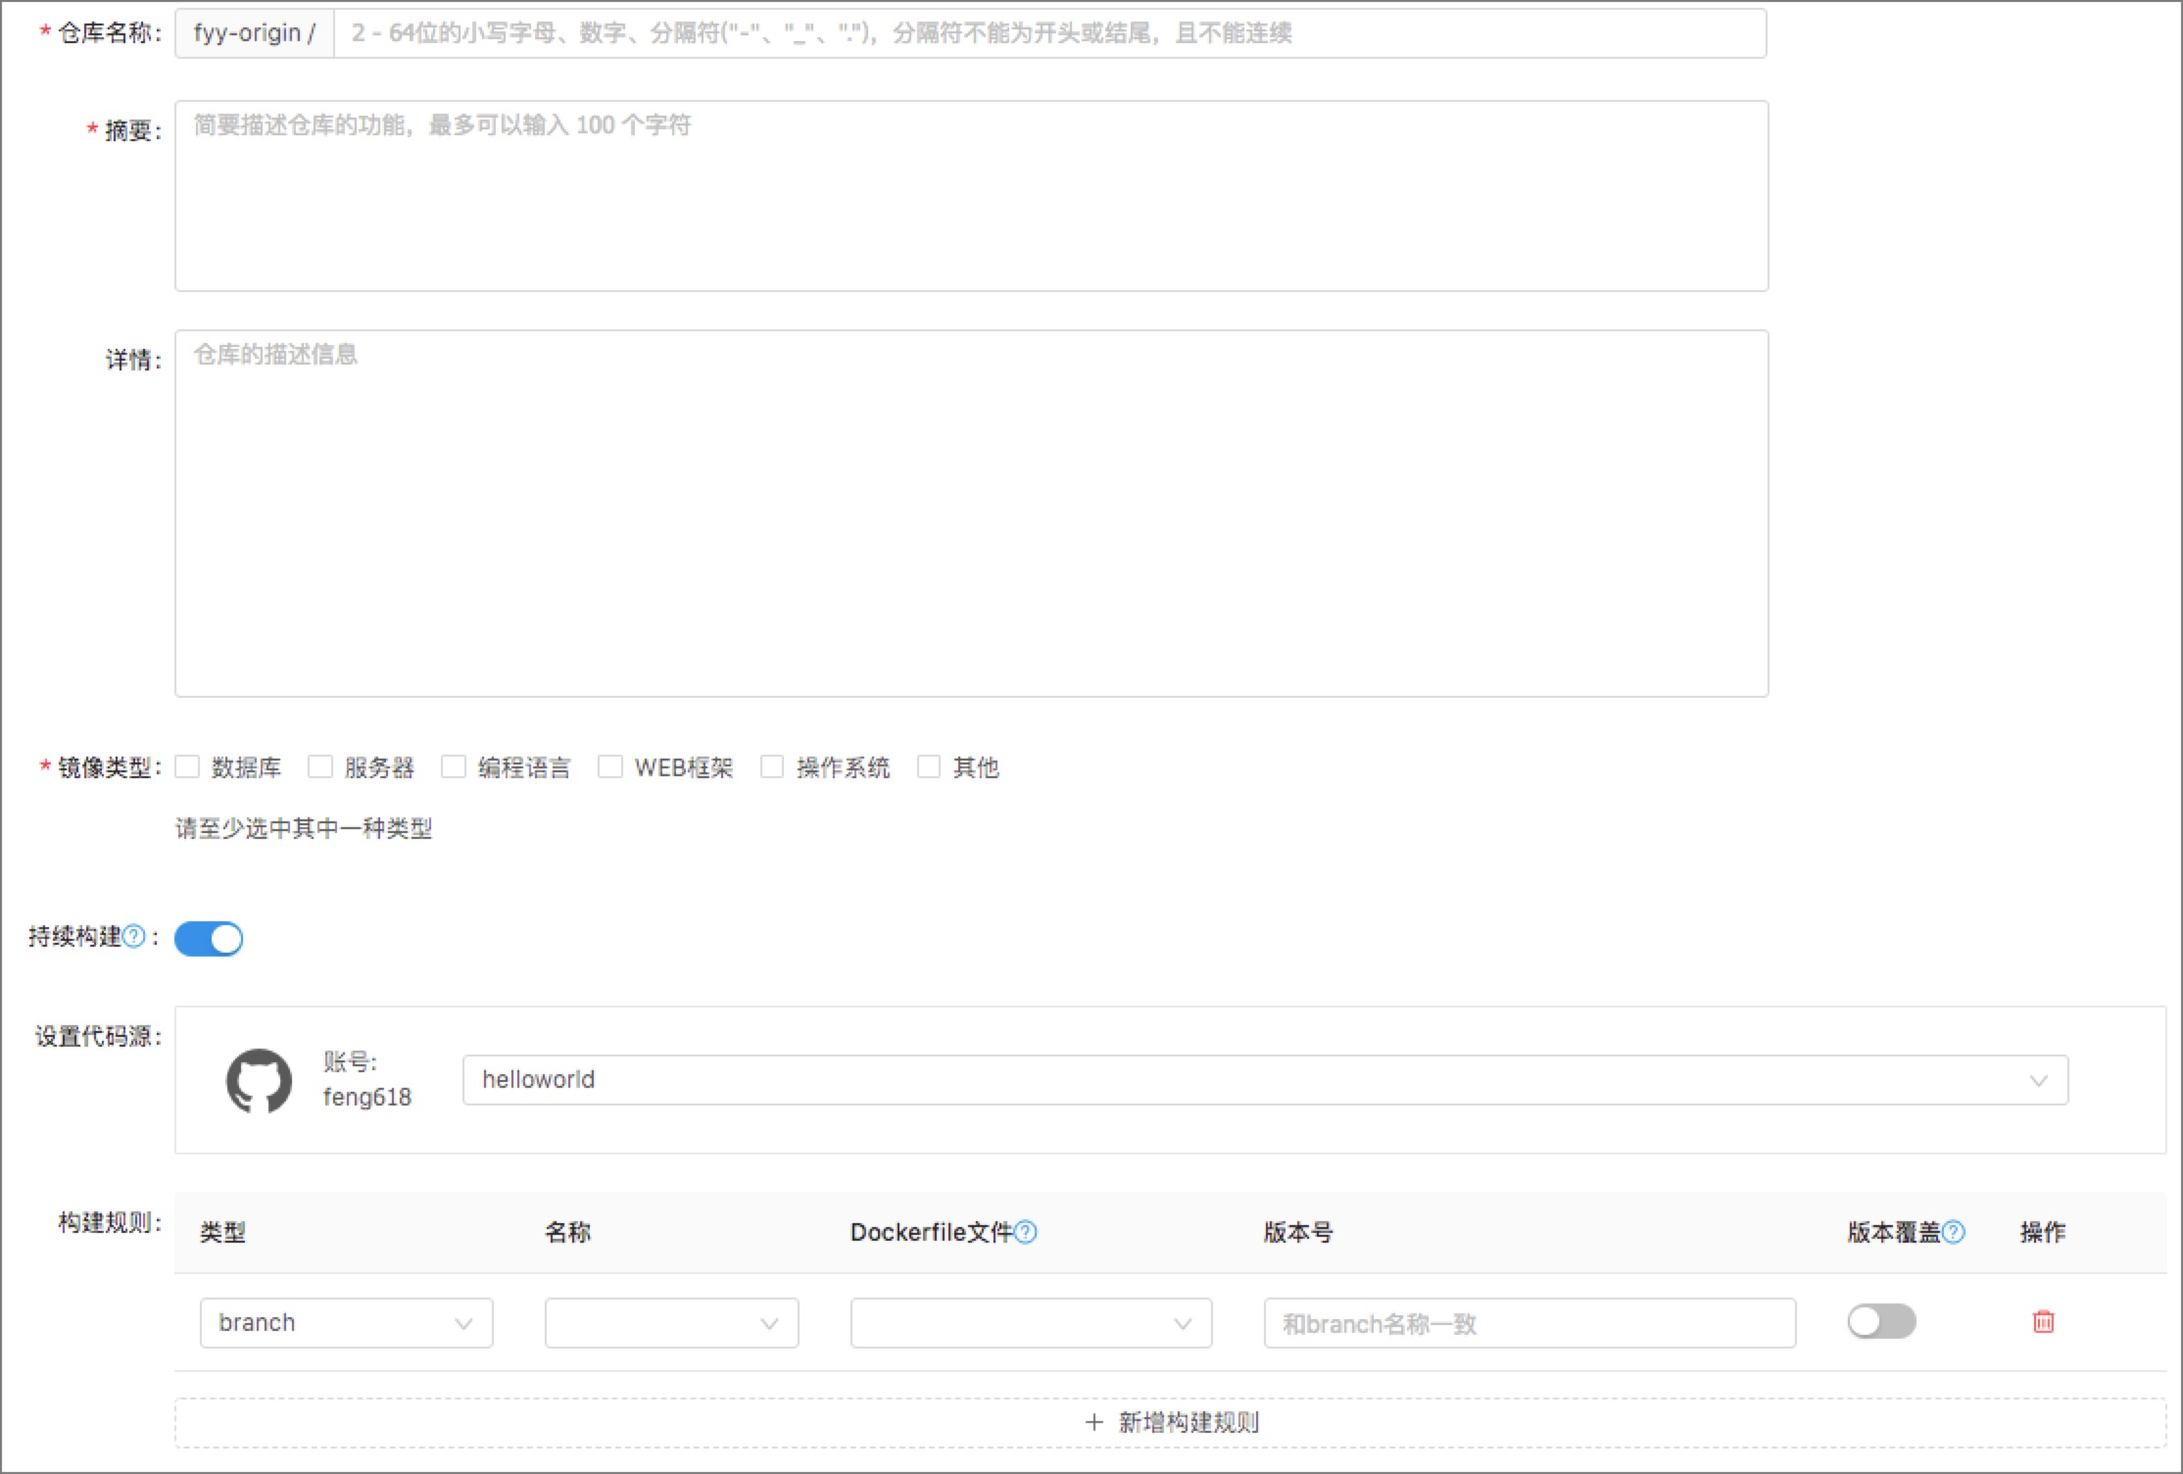
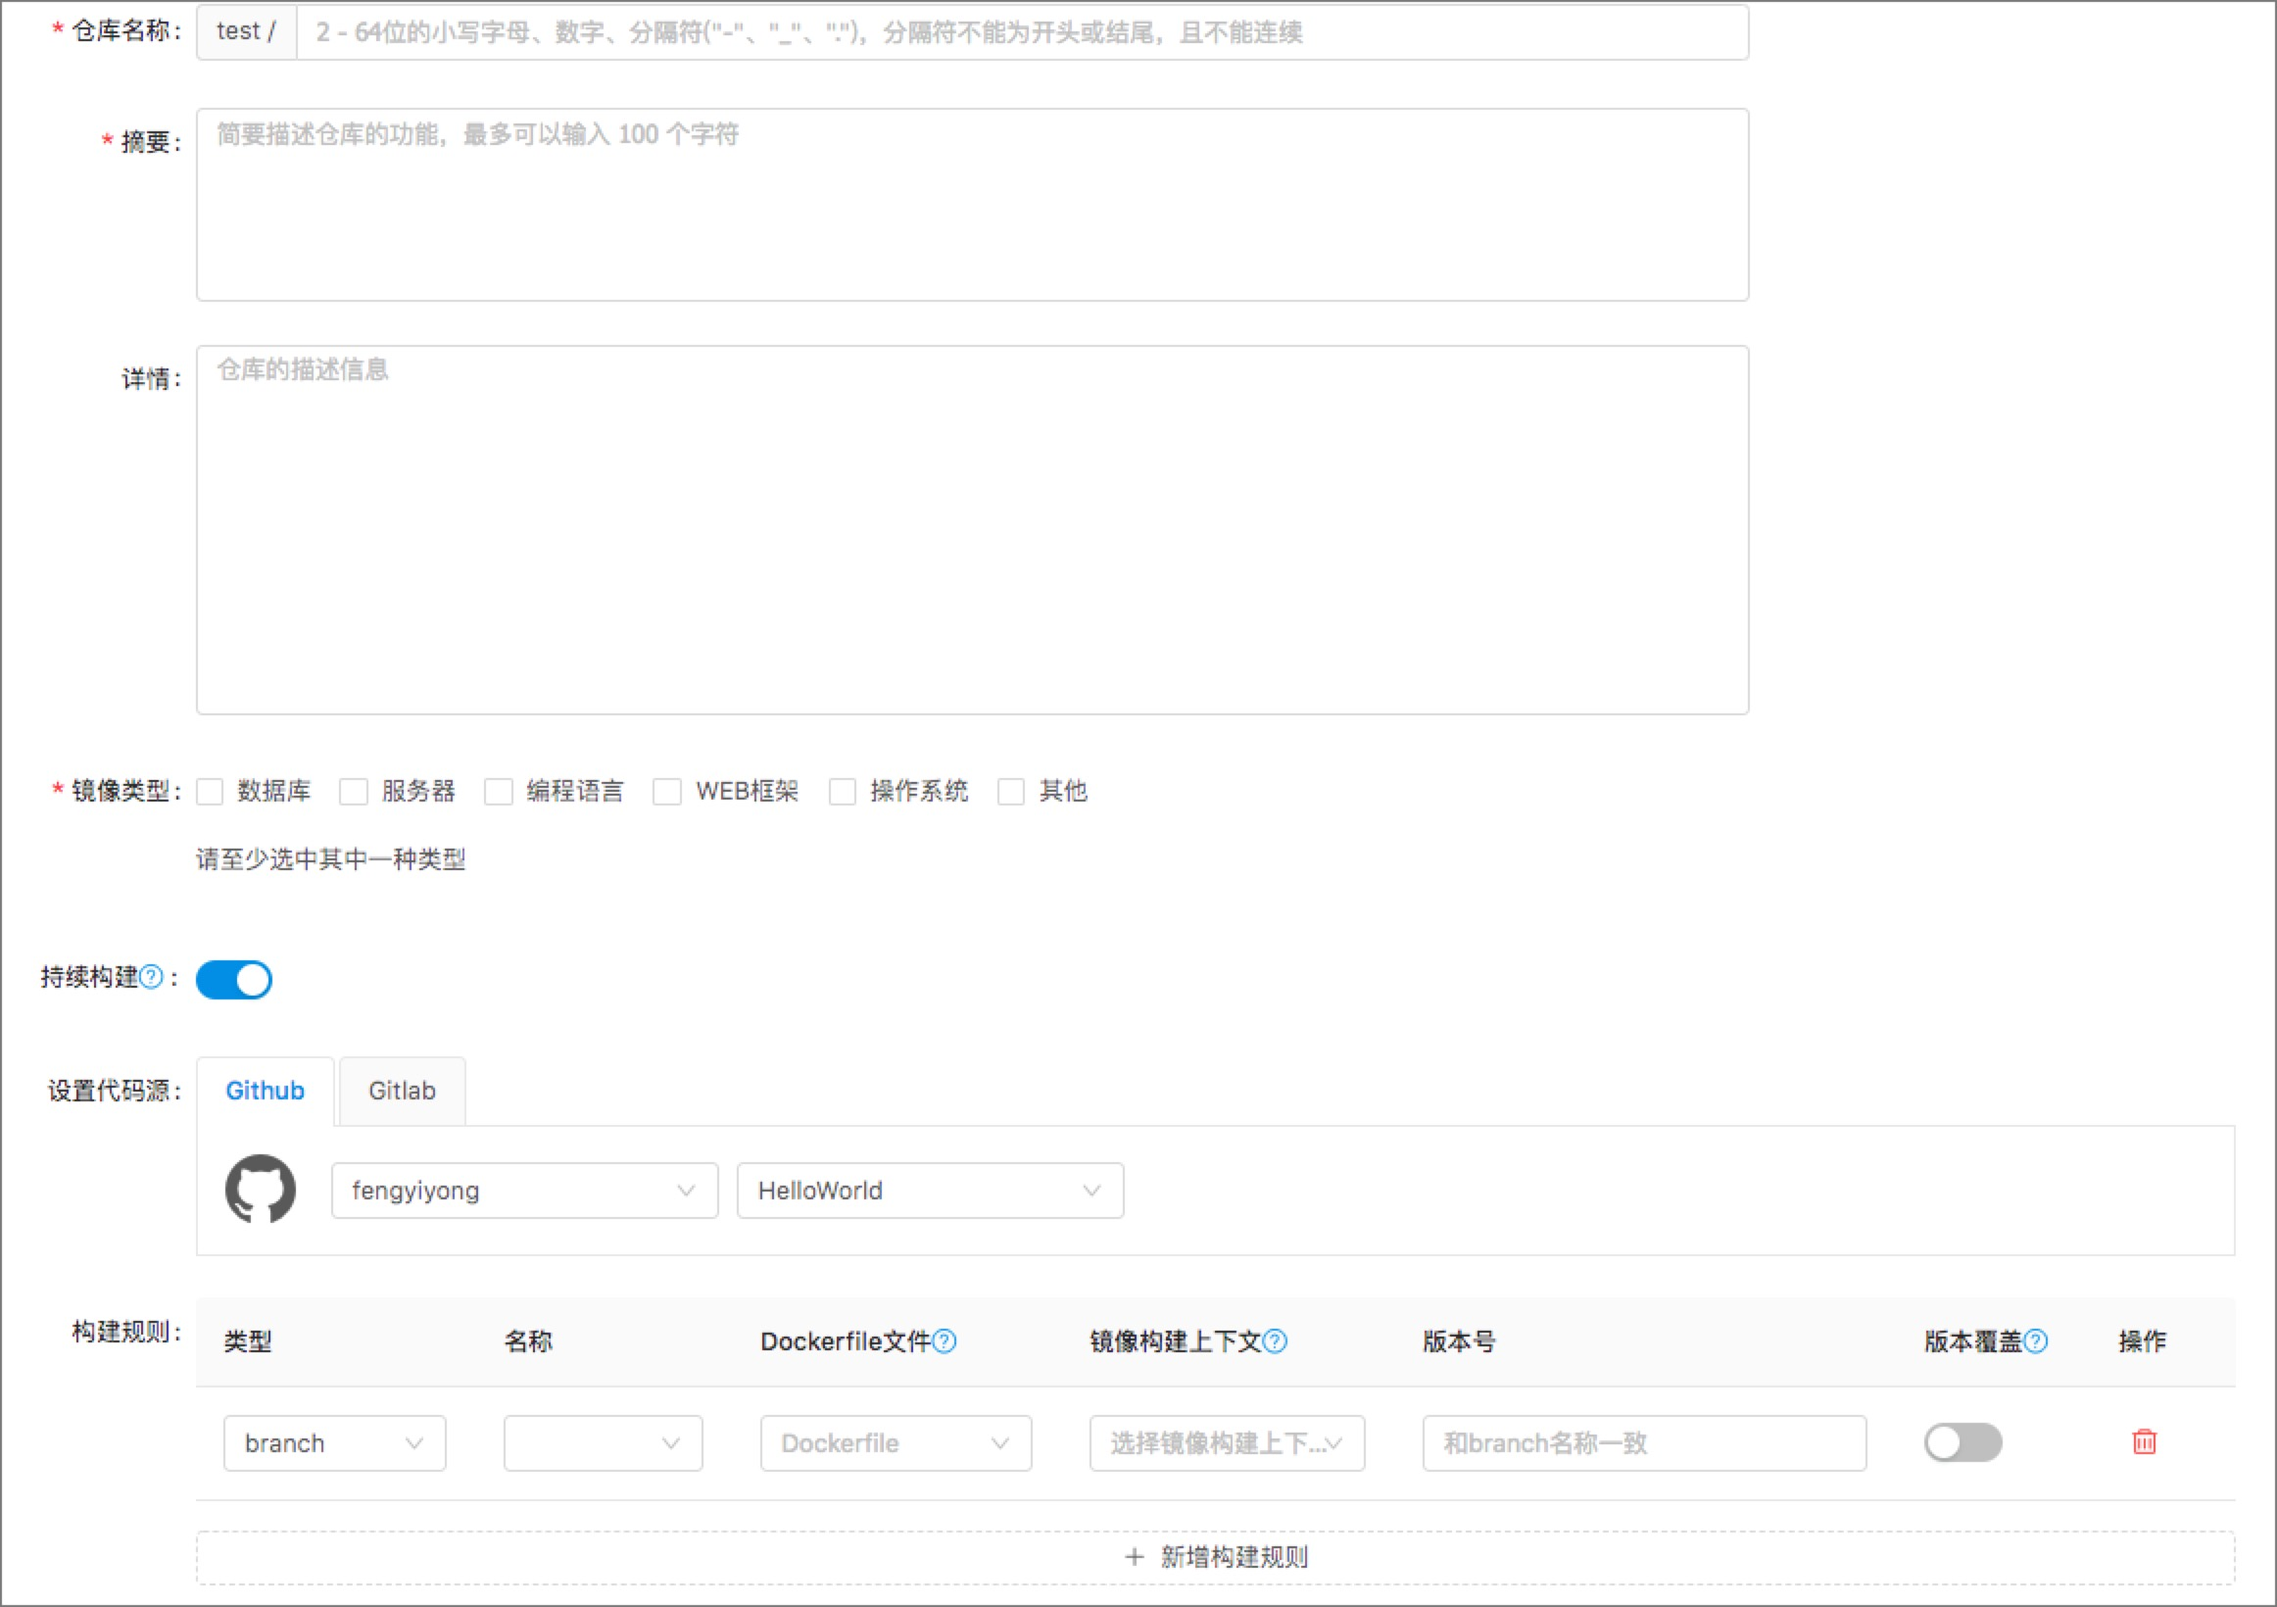
HUB 3.2 - 增加gitlab CI

diff --git a/user-guide/repository.md b/user-guide/repository.md
@@ -58,34 +58,31 @@
 **5.持续构建：**用于开启仓库的持续构建功能。开启后，就可以选择需要关联的git代码仓库。
 
 **6.设置代码源：**用于关联镜像自动构建所需的git代码仓库，每个镜像仓库只能关联一个git代码仓库。<br>
-如果之前没有关联过git代码仓库，打开「持续构建」开关后，会先让你「关联github账号」。
+如果之前没有关联过git代码仓库，打开「持续构建」开关后，会先让你「关联github账号」或者「关联gitlab账号」。
 
-![镜像仓库管理主页面](_figures/user-guide/repo-ci-coderepo.jpeg)
-
-成功关联github账号后，再选择github账号下的代码仓库。至此，算是成功将镜像仓库和git代码仓库做了对接。
+成功关联github或者gitlab账号后，再选择账号下的代码仓库。至此，算是成功将镜像仓库和git代码仓库做了绑定。
 
 **7.构建规则：**镜像仓库不限制构建规则的数量，但是所有构建规则都只和「设置代码源」中约定的git代码仓库有关。
 
 ?> **类型：**branch或者tag。这个用来筛选当前规则是基于git代码仓库下的branch还是tag做构建。<br>
 **名称：**branch名称或者tag名称。其中tag名称可以用通配符定义。<br>
 **Dockerfile文件：**branch或者tag下dockerfile文件所在的路径。<br>
+**镜像构建上下文：**镜像构建上下文路径。<br>
 **版本号：**编译后，所生成镜像的版本号名称，需要保证填写的名称符合docker镜像的tag命名规则。如果不填，版本号的名称会和选择的branch名或tag名一致。<br>
 **版本覆盖：**开关开启时，如果新构建出来的镜像版本号出现同名，会对之前的镜像版本做覆盖。开关关闭时，所有构建出来镜像版本号会被加上后缀，变成`「版本号」-「git commit前7位」`，以保证每次构建出来的镜像版本都被保留。
 ***
 
 ## 3.2.2 如何实现镜像的持续构建
-镜像的持续构建，就是通过更新github代码仓库来触发新的代码自动编译成新的镜像版本，并自动推送入库。<br>
-操作如下：
-
-#### 关联github账号到平台
+### 关联github或gitlab账号到平台
 
 **1）点击控制台左边栏的「个人中心」，进入账户信息页面**
 
-**2）点击「关联账号」，关联github账号到平台**
+**2）选择需要关联的代码仓库类型(github或者gitlab)，点击「关联账号」，关联账号到平台**
 
-![镜像仓库管理主页面](_figures/user-guide/center-github-account.jpeg)
+![镜像仓库管理主页面](_figures/user-guide/center-github-account.png)
 
-**3）点击「Authorize kirk-enterperise」，将github的部分操作权限授权给平台**
+#### 关联github账号
+点击「Authorize kirk-enterperise」，将github的部分操作权限授权给平台**
 
 ![镜像仓库管理主页面](_figures/user-guide/user-repo-auth.jpeg)
 
@@ -93,16 +90,35 @@
 
 ![镜像仓库管理主页面](_figures/user-guide/repo-github-accout2.jpeg)
 
-#### 创建持续构建仓库
+#### 关联gitlab账号
+首先需要在gitlab端获取「Personal Access Token」，操作如下：
 
-**4）点击控制台左边栏的「镜像仓库」，进入仓库列表页面**
+登入gitlab控制台，点击右上角用户头像，下拉选择「Settings」
 
-**5）点击「创建新的仓库」，开始创建一个能够做持续构建镜像的仓库**
+![镜像仓库管理主页面](_figures/user-guide/gitlab-settings.png)
+
+在左边栏选择「Access Tokens」,通过填写	`Name`、`Expires at`，勾选全部的`Scopes`，生成一个Personal Access Token
+
+![镜像仓库管理主页面](_figures/user-guide/gitlab-access-tokens.png)
+
+![镜像仓库管理主页面](_figures/user-guide/gitlab-personal-access-tokens.png)
+
+获取到Personal Access Token后，在控制台填入`Gitlab地址`和`Personal Access Token`，点击确定。
+
+![镜像仓库管理主页面](_figures/user-guide/gitlab-account.png)
+
+授权成功后，可以在控制台的「个人中心」看到gitlab账号名。
+
+### 创建持续构建仓库
+
+**3）点击控制台左边栏的「镜像仓库」，进入仓库列表页面**
+
+**4）点击「创建新的仓库」，开始创建一个能够做持续构建镜像的仓库**
 仓库属性，详见[3.2.1.2 持续构建仓库](#jump1)
 
-#### 触发持续构建
+### 触发持续构建
 
-**6）持续构建的触发，都是通过github的webhook实现的。当持续构建规则中监测的branch或者tag出现更新，就会自动触发新的构建。<br>
+**5）持续构建的触发，是通过git仓库本身的webhook实现的。当持续构建规则中监测的branch或者tag出现更新，就会自动触发新的构建。<br>
 用户也可以通过点击对应规则后面的「立即构建」，手动触发构建。**
 
 **如何手动触发镜像构建？**<br>
